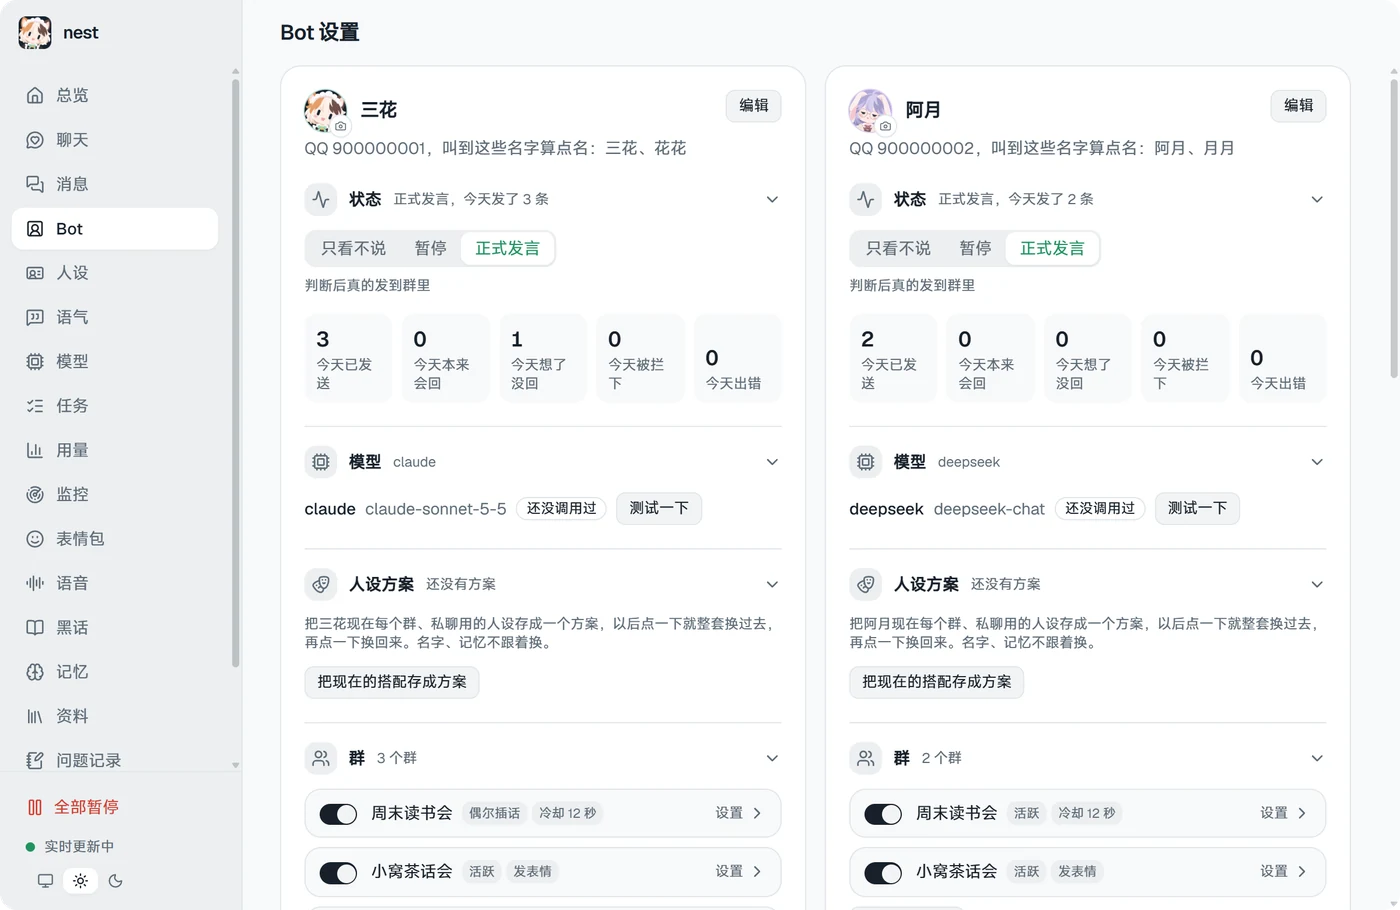
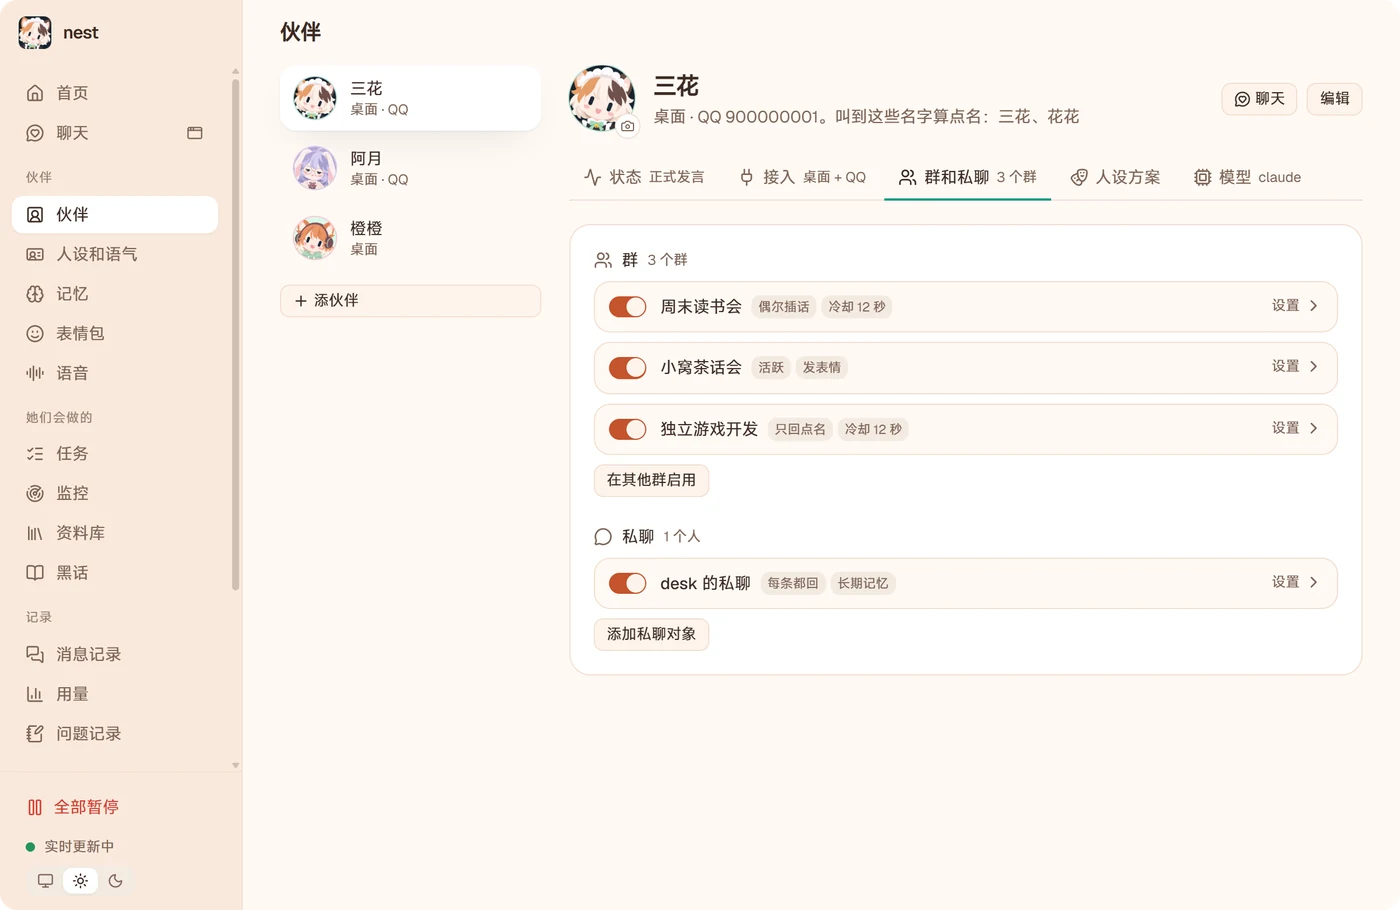
README：和伙伴一起玩（五子棋、海龟汤、你画我猜）的截图，控制台截图换成新界面，补上冷场开口、人设方案和 Gemini

diff --git a/README.md b/README.md
@@ -14,7 +14,7 @@
 ![Platform](https://img.shields.io/badge/Windows%20%7C%20macOS%20%7C%20Linux-8a8f98)
 ![Python](https://img.shields.io/badge/Python-3.12-e6a15c)
 
-[快速开始](#快速开始) · [能做什么](#能做什么) · [接上平台](#接上平台) · [插件](docs/plugins.md) · [开发](docs/development.md)
+[快速开始](#快速开始) · [能做什么](#能做什么) · [一起玩](#一起玩) · [接上平台](#接上平台) · [插件](docs/plugins.md) · [开发](docs/development.md)
 
 </div>
 
@@ -56,6 +56,20 @@
 
 她会记得你的喜好和约定。命令默认在她自己的 Docker 容器里跑；装了桌面端，还能在你的 Windows 上读写你授权的文件夹、跑命令：动手之前先问你，哪些能自动做由你在那台电脑上定。
 
+### 一起玩
+
+聊天里点「一起玩」：五子棋、黑白棋、海龟汤、你画我猜。她边玩边聊，你也能随时跟她说话；海龟汤她现编题目、一句句答你「是」「不是」；你画的她真的会看着猜，也可以换她来画、你来猜。
+
+<table>
+<tr>
+<td width="62%"><img src="docs/images/game-draw.webp" alt="你画我猜：画了一只猫，三花第二次就猜中了"></td>
+<td width="38%" rowspan="2"><img src="docs/images/game-gomoku.webp" alt="和三花下五子棋，她在棋盘上方说话"></td>
+</tr>
+<tr>
+<td><img src="docs/images/game-soup.webp" alt="海龟汤：三花出题，一句句回答「是」「不是」，最后猜中汤底"></td>
+</tr>
+</table>
+
 ### 会看场合的群友
 
 <table>
@@ -68,6 +82,7 @@
 - 认真答题：联网查、翻聊天记录，或者[照项目资料回答](docs/knowledge.md)
 - 收集群里的表情包，学群里的黑话
 - 盯着订阅、网页和价格，有变化就来报信
+- 群里冷场时主动开口：闲聊、卖萌，或者叫大家玩猜数字、海龟汤、成语接龙
 - 可以先「只看不说」，看看她本来会说什么
 
 </td>
@@ -78,14 +93,16 @@
 
 <table>
 <tr>
-<td width="72%"><img src="docs/images/bots.webp" alt="控制台的 Bot 设置"></td>
-<td width="28%"><img src="docs/images/phone.webp" alt="手机上的聊天"></td>
+<td width="50%"><img src="docs/images/overview.webp" alt="控制台首页：每位伙伴在哪、最近说了什么"></td>
+<td width="50%"><img src="docs/images/bots.webp" alt="伙伴页：群和私聊的开关"></td>
 </tr>
 <tr>
-<td>人设、模型、每个群的开关、用量、监控、备份都在网页里。人设能存成方案，一键整套换。</td>
-<td>手机浏览器也能用：局域网或 Tailscale，密码登录。</td>
+<td><b>首页</b>：每位伙伴在哪、最近说了什么，哪里需要你看一下都列在这里。</td>
+<td><b>伙伴</b>：状态、接入的平台、每个群和私聊、人设方案、模型，分开放在一页里。</td>
 </tr>
 </table>
+
+人设、模型、用量、监控、备份都在网页里。人设方案连名字、头像、声音和模型一起存，同一个号一键换成另一个角色，QQ 昵称和头像也跟着换。手机浏览器也能用：局域网或 Tailscale，密码登录。
 
 主题、桌宠、表情包、Skill、MCP 服务器、新的模型和平台都能[做成插件](docs/plugins.md)。
 
@@ -141,9 +158,9 @@ nest 跑在常开的另一台电脑上，Windows 只当聊天窗口和桌宠：
 | Discord、Telegram、Slack | 填官方 Bot 的 Token，支持代理 |
 | 企业微信 | 智能机器人，填 BotID 和 Secret |
 
-都在控制台「Bot」页点「增加 bot」。桌面上的伙伴也能接一个账号，带着聊天和记忆搬过去。
+在控制台「伙伴」页点「添伙伴」，选「从号开始加」。桌面上的伙伴也能在她的「接入」里接一个平台，聊天和记忆跟着过去。接好的号在「平台接入」页看连接和在线情况。
 
-模型支持 OpenAI 兼容接口（Chat Completions、Responses）、Anthropic，以及 ChatGPT 的 Codex 订阅。每个 bot 可以再设一个备用模型。
+模型支持 OpenAI 兼容接口（Chat Completions、Responses）、Anthropic、Gemini（Gemini API 和 Vertex AI），以及 ChatGPT 的 Codex 订阅。每个 bot 可以再设一个备用模型。
 
 > [!WARNING]
 > QQ 是用 NapCat 这类程序登录个人号，不是腾讯官方的机器人接口，违反 QQ 的用户协议。号可能被提示「风险设备」、限制功能甚至冻结。请用专门的小号，不要用主号。

diff --git a/docs/knowledge.md b/docs/knowledge.md
@@ -1,6 +1,6 @@
 # 项目资料怎么检索
 
-一个群可以绑定一个项目的帮助资料：问项目的问题照资料回答，答不上的转给维护资料的人。在控制台「资料」页设置。
+一个群可以绑定一个项目的帮助资料：问项目的问题照资料回答，答不上的转给维护资料的人。在控制台「资料库」页设置。
 
 资料是 Markdown，每节固定写标题、别名、界面位置、平台、版本、报错原文。一道项目问题的处理：
 
@@ -10,6 +10,6 @@
 4. **模型挑资料**：回答问题的 bot 自己的模型，从排好的候选（每节只给标题和摘要）里挑出真能回答的几节。出错时退回重排的结果。
 5. **照资料作答**：只照这几节回答，界面路径照资料原样说，资料没写的直说不确定；一题问几件事就逐件答。
 6. **资料答不上就看源码**（可选）：bot 用自己的模型一步步搜、读项目的源码，确认过的结论再补答。
-7. **答不上就转交**：由 bot 私聊转给维护资料的人；在控制台「资料」页补的回答马上能被检索到。
+7. **答不上就转交**：由 bot 私聊转给维护资料的人；在控制台「资料库」页补的回答马上能被检索到。
 
 向量和重排模型是本机的 llama.cpp `llama-server`（`--embedding`、`--reranking`），在控制台填地址；没有它们时退回关键词检索。
